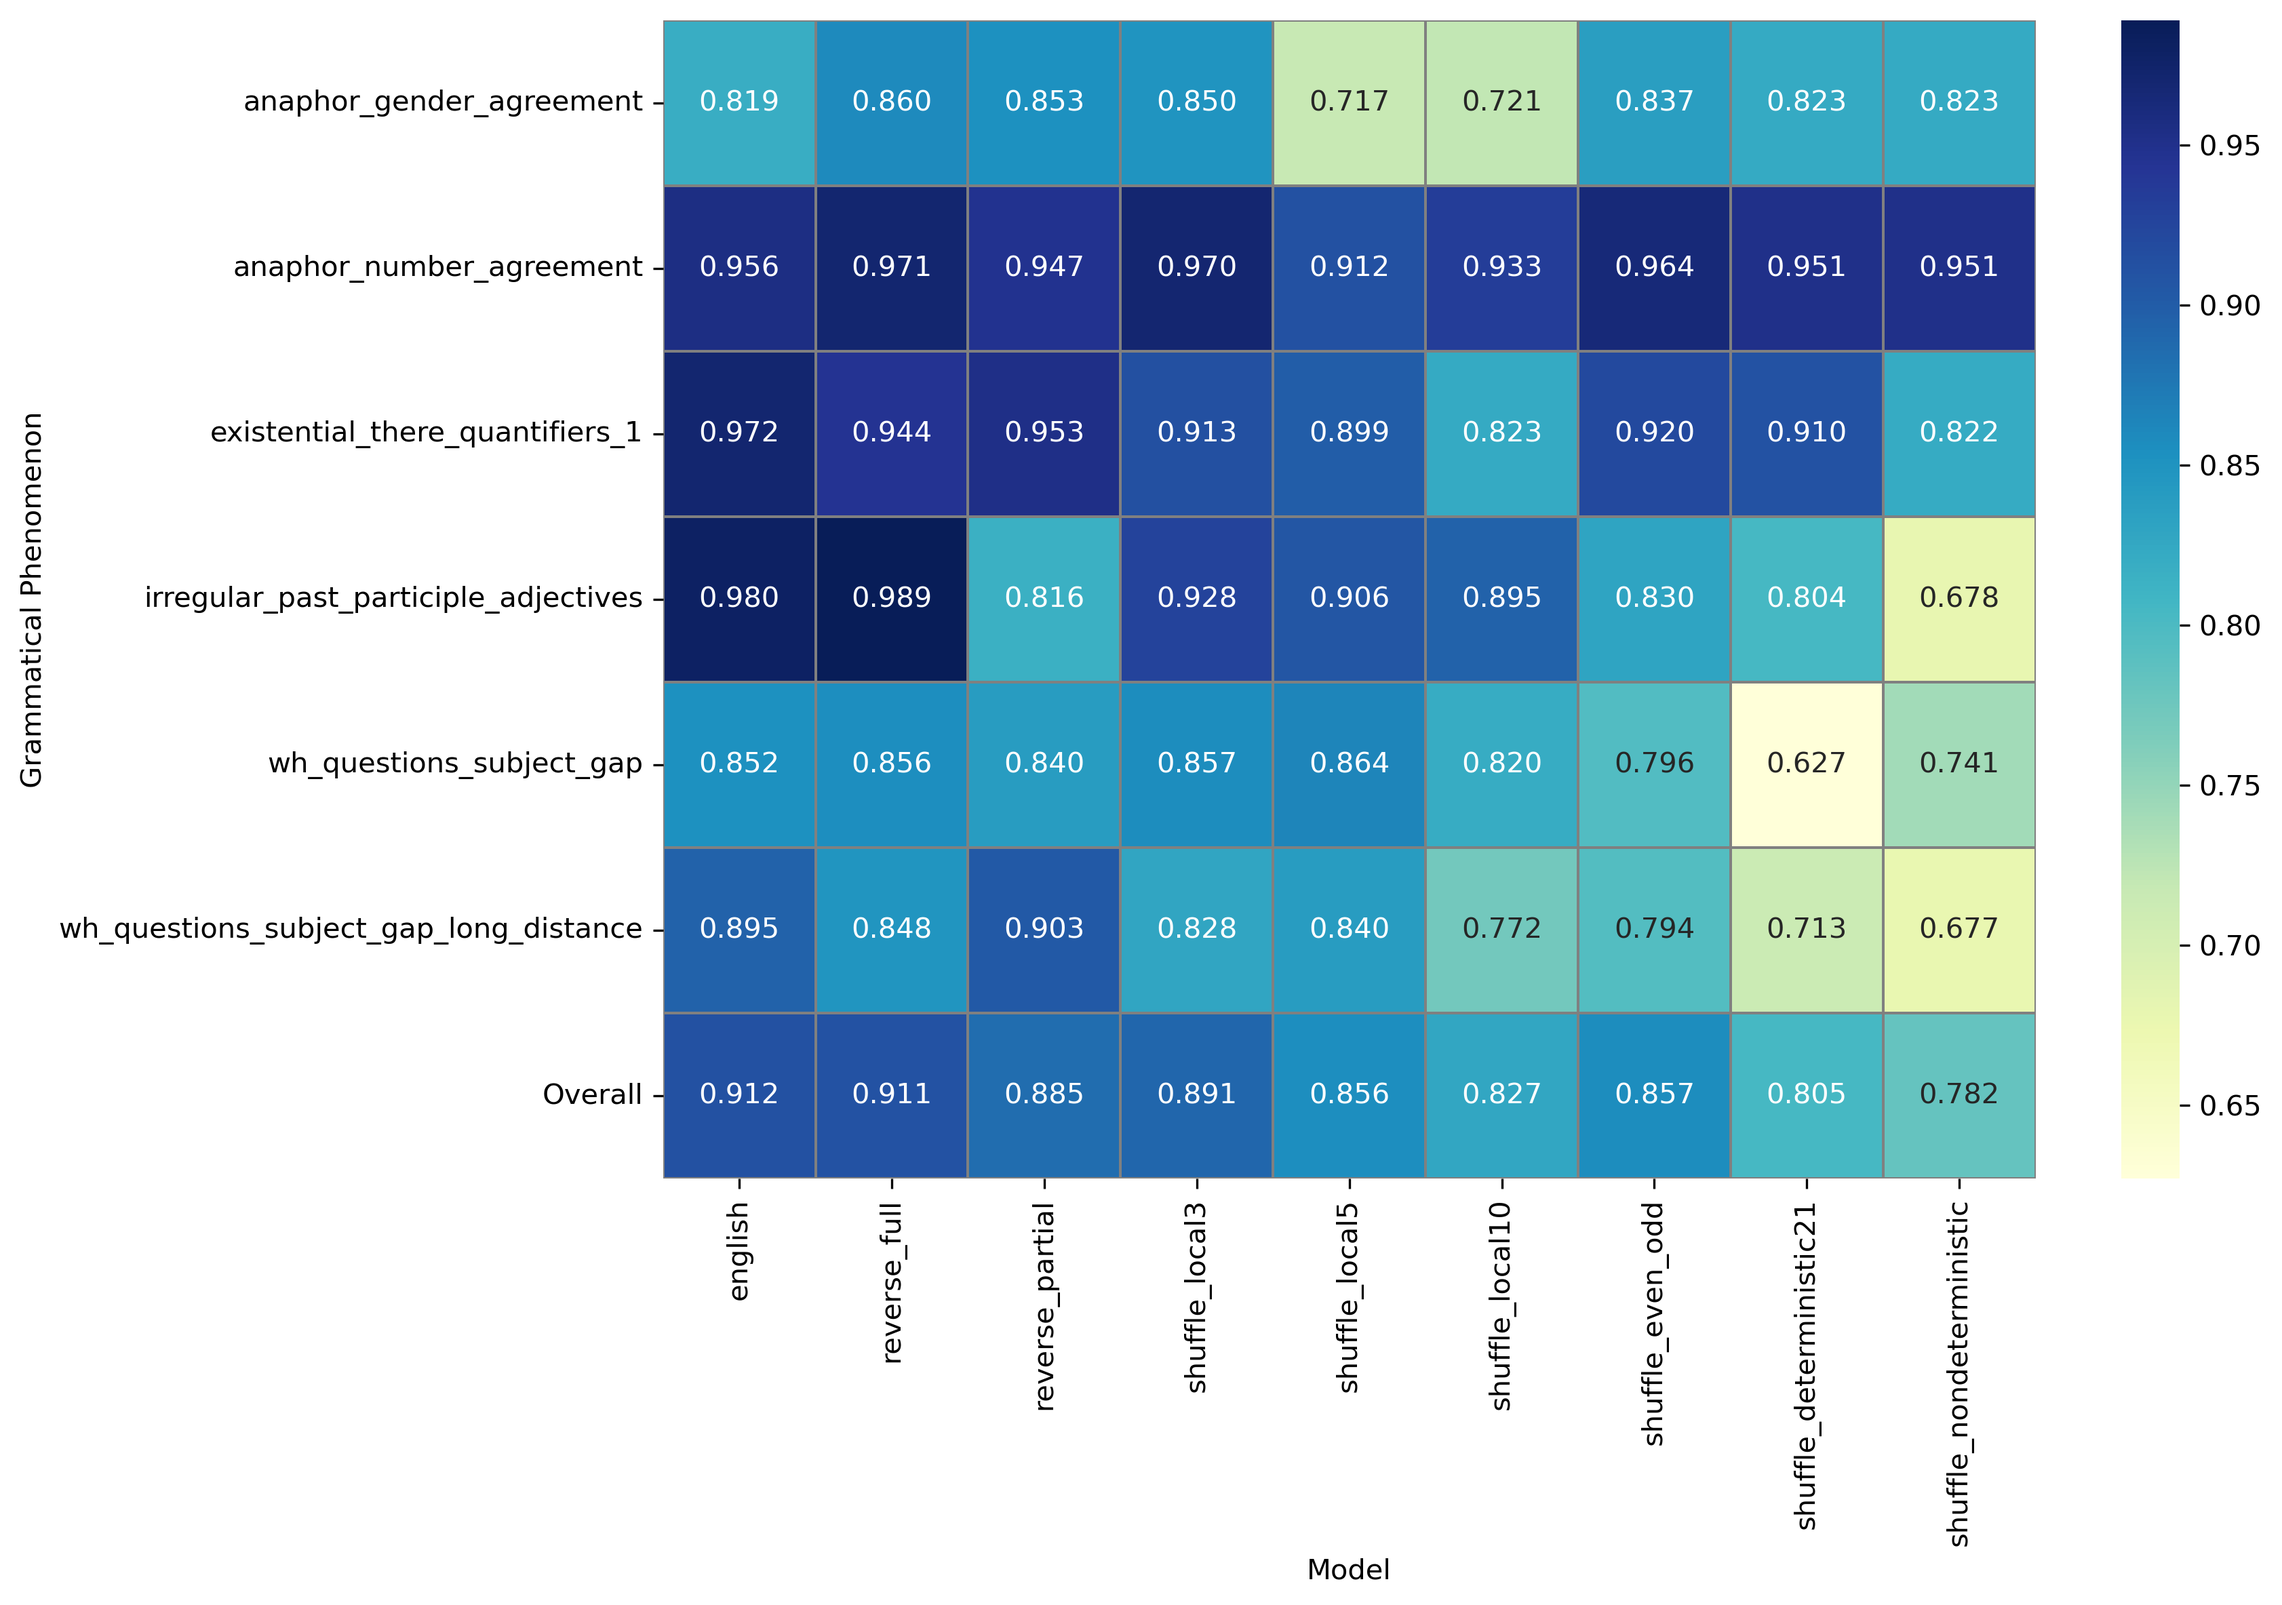
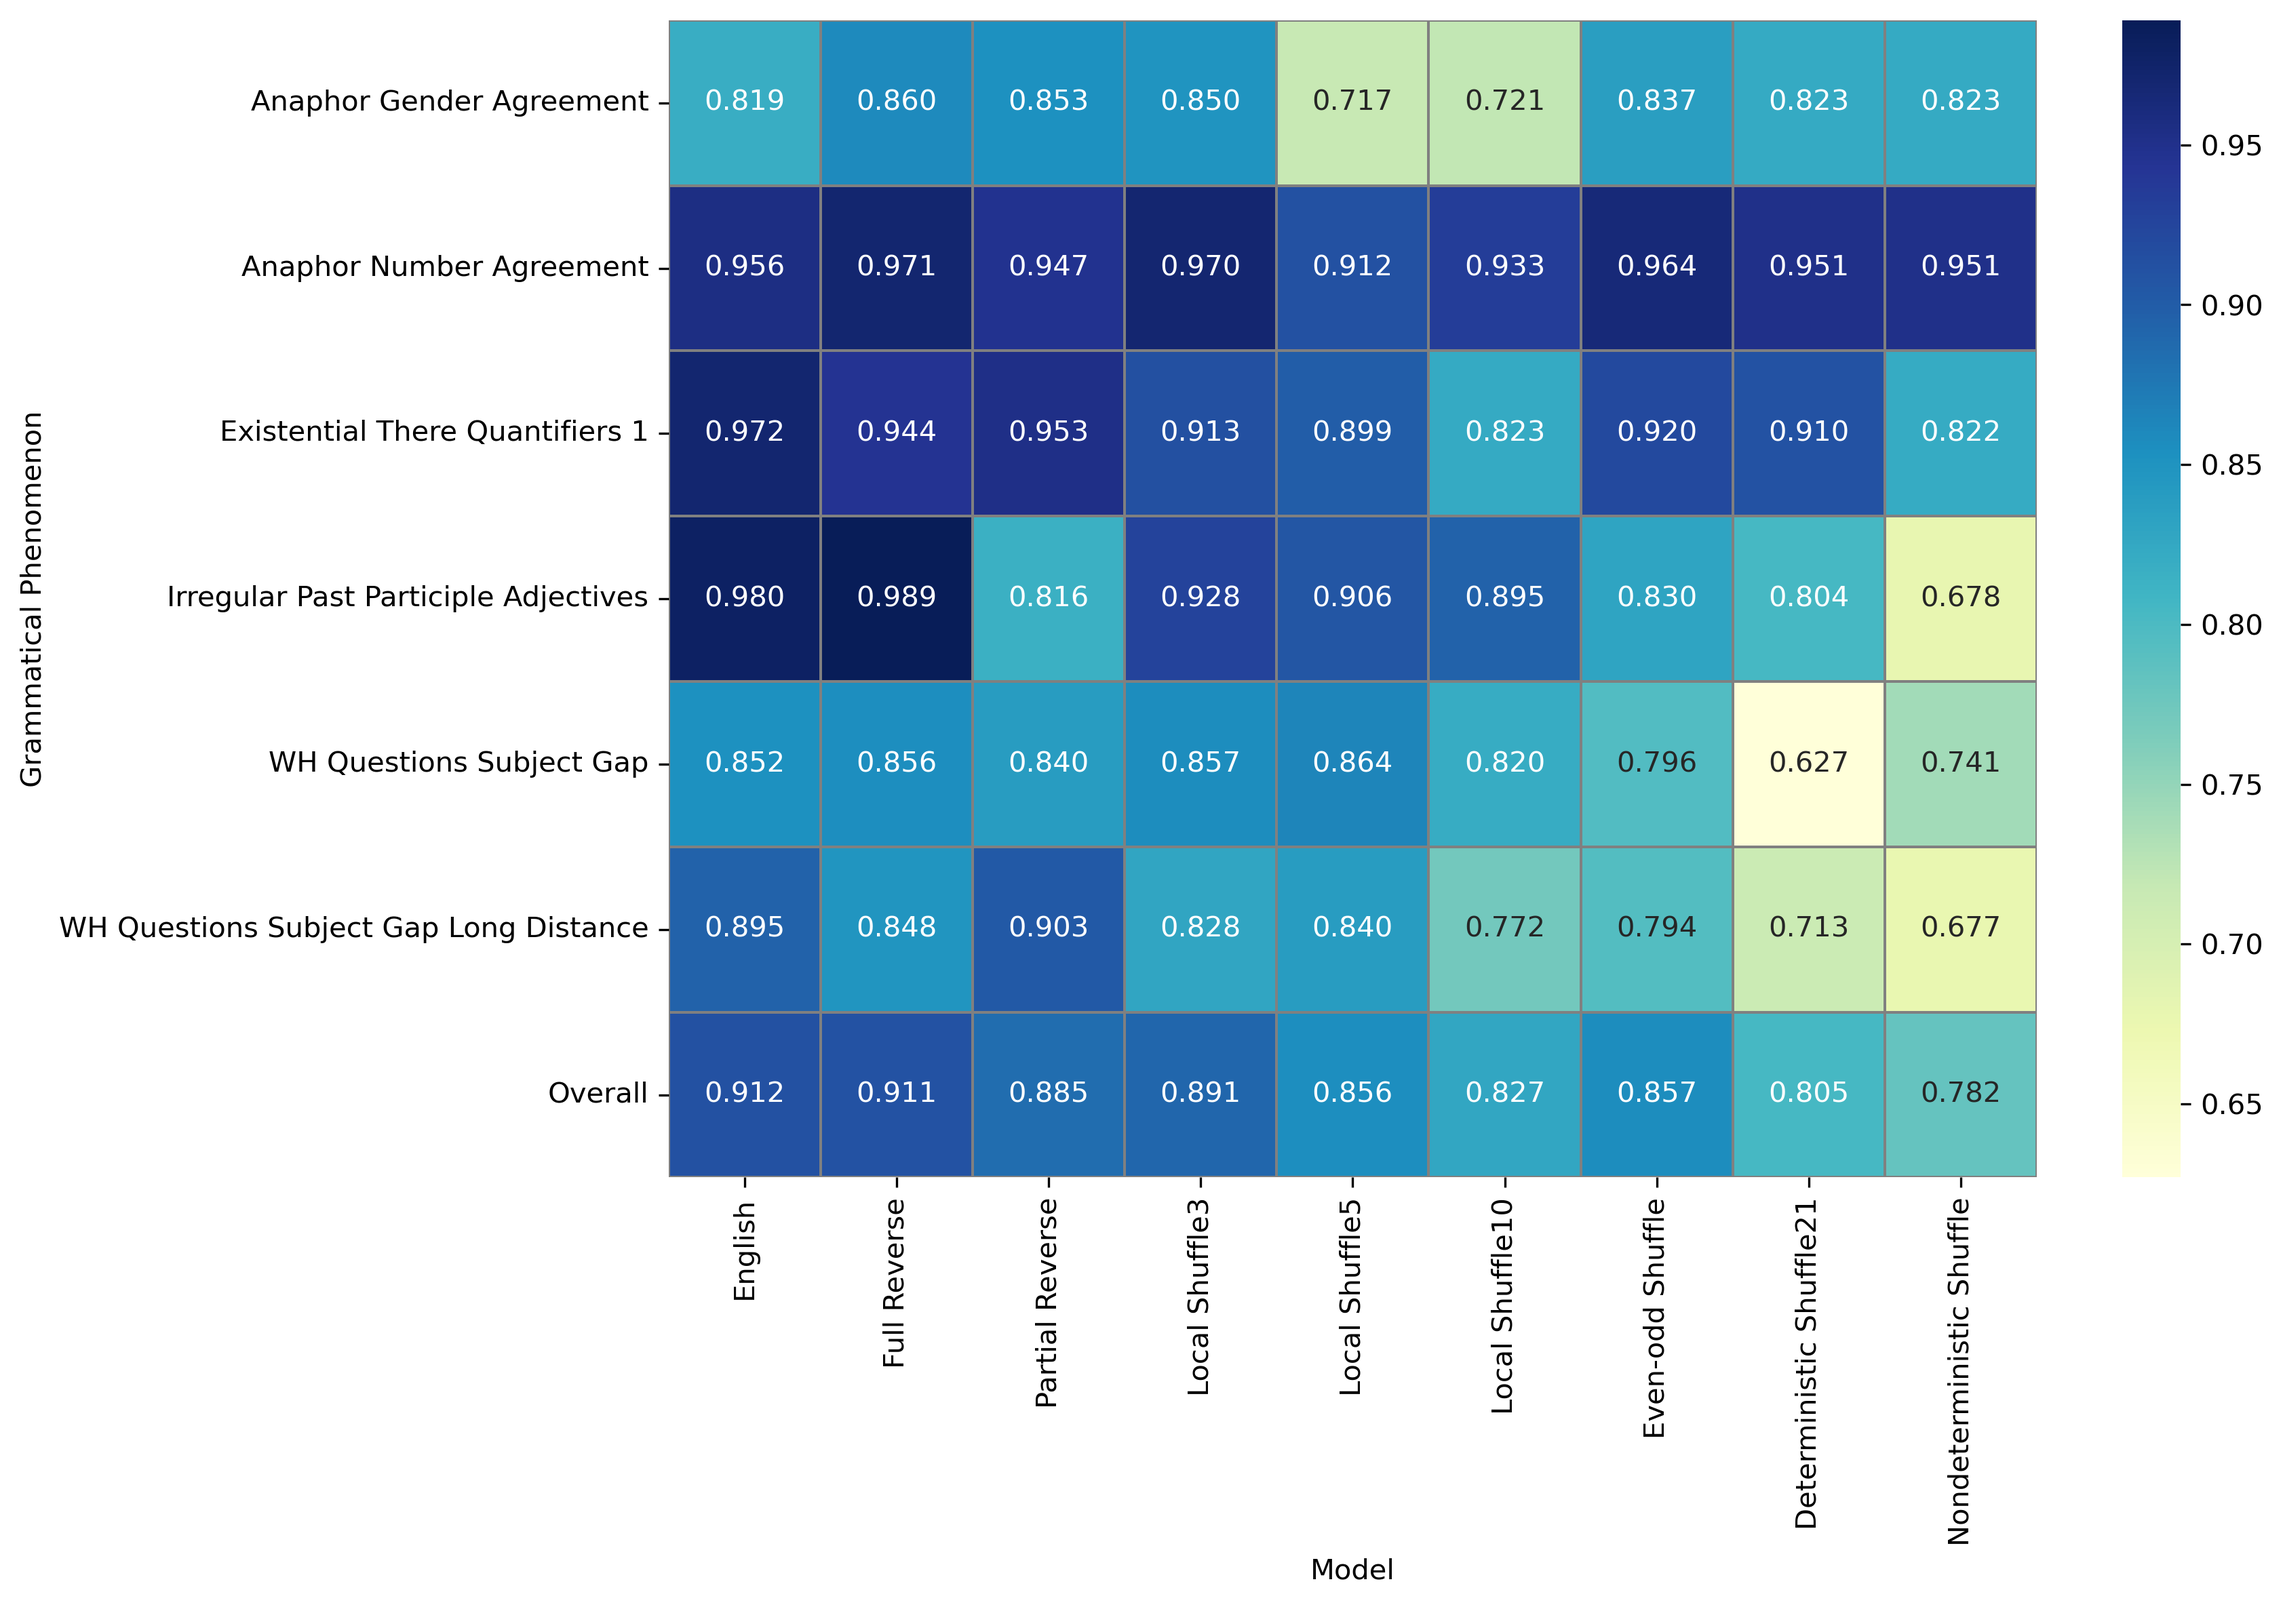
Update names for performance tables

diff --git a/analysis/performance_statistics.py b/analysis/performance_statistics.py
@@ -24,6 +24,24 @@ PHENOMENA_LIST = [
     "existential_there_quantifiers_1"
 ]
 
+PHENOMENA_TO_DISPLAY_NAME = {
+    "adjunct_island": "Adjunct Island",
+    "anaphor_gender_agreement": "Anaphor Gender Agreement",
+    "anaphor_number_agreement": "Anaphor Number Agreement",
+    "animate_subject_passive": "Animate Subject Passive",
+    "distractor_agreement_relative_clause": "Distractor Agreement Relative Clause",
+    "ellipsis_n_bar_1": "Ellipsis N-bar 1",
+    "irregular_past_participle_adjectives": "Irregular Past Participle Adjectives",
+    "principle_A_c_command": "Principle A C-command",
+    "wh_questions_object_gap": "WH Questions Object Gap",
+    "wh_questions_object_gap_long_distance": "WH Questions Object Gap Long Distance",
+    "wh_questions_subject_gap": "WH Questions Subject Gap",
+    "wh_questions_subject_gap_long_distance": "WH Questions Subject Gap Long Distance",
+    "left_branch_island_simple_question": "Left Branch Island Simple Question",
+    "determiner_noun_agreement_with_adj_2": "Determiner Noun Agreement With Adj 2",
+    "existential_there_quantifiers_1": "Existential There Quantifiers 1"
+}
+
 PHENOMENA_LIST_MAP = {
     "adjunct_island": "island_effects",
     "anaphor_gender_agreement": "anaphor_agreement",
@@ -83,6 +101,18 @@ MODEL_ORDER = [
     "shuffle_deterministic21",
     "shuffle_nondeterministic",
 ]
+
+MODEL_TO_DISPLAY_NAME = {
+    "english": "English",
+    "reverse_full": "Full Reverse",
+    "reverse_partial": "Partial Reverse",
+    "shuffle_local3": "Local Shuffle3",
+    "shuffle_local5": "Local Shuffle5",
+    "shuffle_local10": "Local Shuffle10",
+    "shuffle_even_odd": "Even-odd Shuffle",
+    "shuffle_deterministic21": "Deterministic Shuffle21",
+    "shuffle_nondeterministic": "Nondeterministic Shuffle",
+}
 
 def plot_ordering(
     labels: List[str],
@@ -306,11 +336,17 @@ def save_performance_table_image(
     all_models = MODEL_ORDER
     # Filter to requested phenomena
     df = df[df["grammatical phenomenon"].isin(phenomena)]
+    
+    # Pivot table: index=phenomenon, columns=model,    # Map to display names for table
+    df["grammatical phenomenon"] = df["grammatical phenomenon"].apply(lambda x: PHENOMENA_TO_DISPLAY_NAME.get(x, x))
+    df["model name"] = df["model name"].apply(lambda x: MODEL_TO_DISPLAY_NAME.get(x, x))
+    phenomena_display = [PHENOMENA_TO_DISPLAY_NAME.get(p, p) for p in phenomena]
+    all_models_display = [MODEL_TO_DISPLAY_NAME.get(m, m) for m in MODEL_ORDER]
 
-    # Pivot table: index=phenomenon, columns=model, values=accuracy
+    # Create pivot table
     table = df.pivot_table(index="grammatical phenomenon", columns="model name", values="accuracy")
     # Ensure all models/phenomena present (fill missing with NaN)
-    table = table.reindex(index=phenomena, columns=all_models)
+    table = table.reindex(index=phenomena_display, columns=all_models_display)
 
     # Add 'Overall' row (average per model)
     table.loc['Overall'] = table.mean(axis=0, skipna=True)
